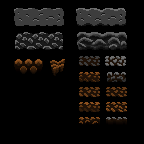
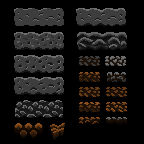
Concept art (themes), update to DFCA11 and minor update to FEATURES.md

Changed region(s): [[0.0833, 0.2222, 0.4722, 0.6667], [0.0833, 0.6944, 0.4722, 0.9722]]

diff --git a/docs/FEATURES.md b/docs/FEATURES.md
@@ -48,3 +48,9 @@ Death Floor V3 early feature list (roughly descending in priority / expected eff
     above would be required.
 
 - Basic enemy system: Basic grounded "roamer" enemies that stun the player on contact and simply trace left and right until they either hit a wall or encounter a ledge.
+
+- Parallax 
+
+- State / switch system for enviromental entities: Define two or more states for an object and be able to set an interval in tiled, based on which the object cycles through its states.
+  Example: Spike platform - state 1 has spikes attatched to the platform on its horizontal sides, state 2 on the vertical ones. An interval of 2 sec is being set, thus every 2 sec a short
+  transitional animation is played and the hitboxes are being adjusted.
